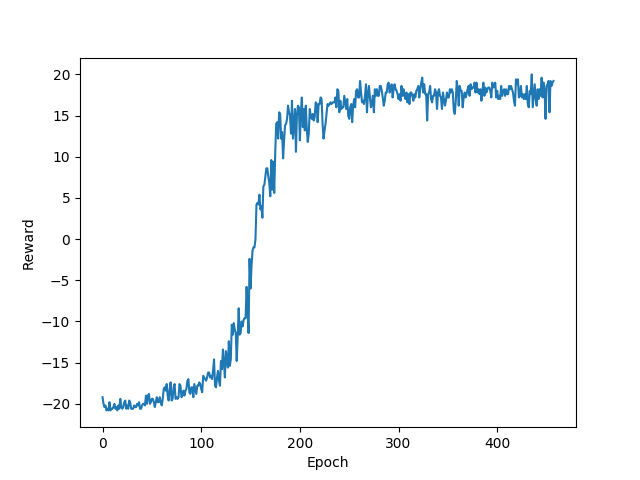
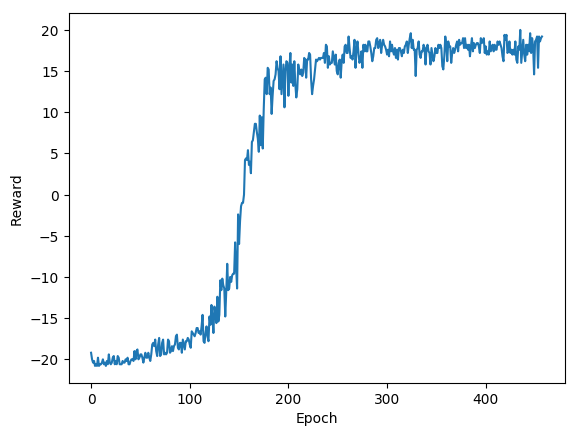
tight bounding box on image

Changed region(s): [[0.0, 0.0596, 0.9343, 0.9839], [0.0623, 0.0596, 0.1246, 0.0894]]

diff --git a/analyze-learning.py b/analyze-learning.py
@@ -16,4 +16,4 @@ with open("atari-log.txt", "r") as f:
     plt.plot(range(n_bins), rewards_binned)
     plt.xlabel("Epoch")
     plt.ylabel("Reward")
-    plt.savefig("reward-over-time.png")
+    plt.savefig("reward-over-time.png", bbox_inches="tight")
